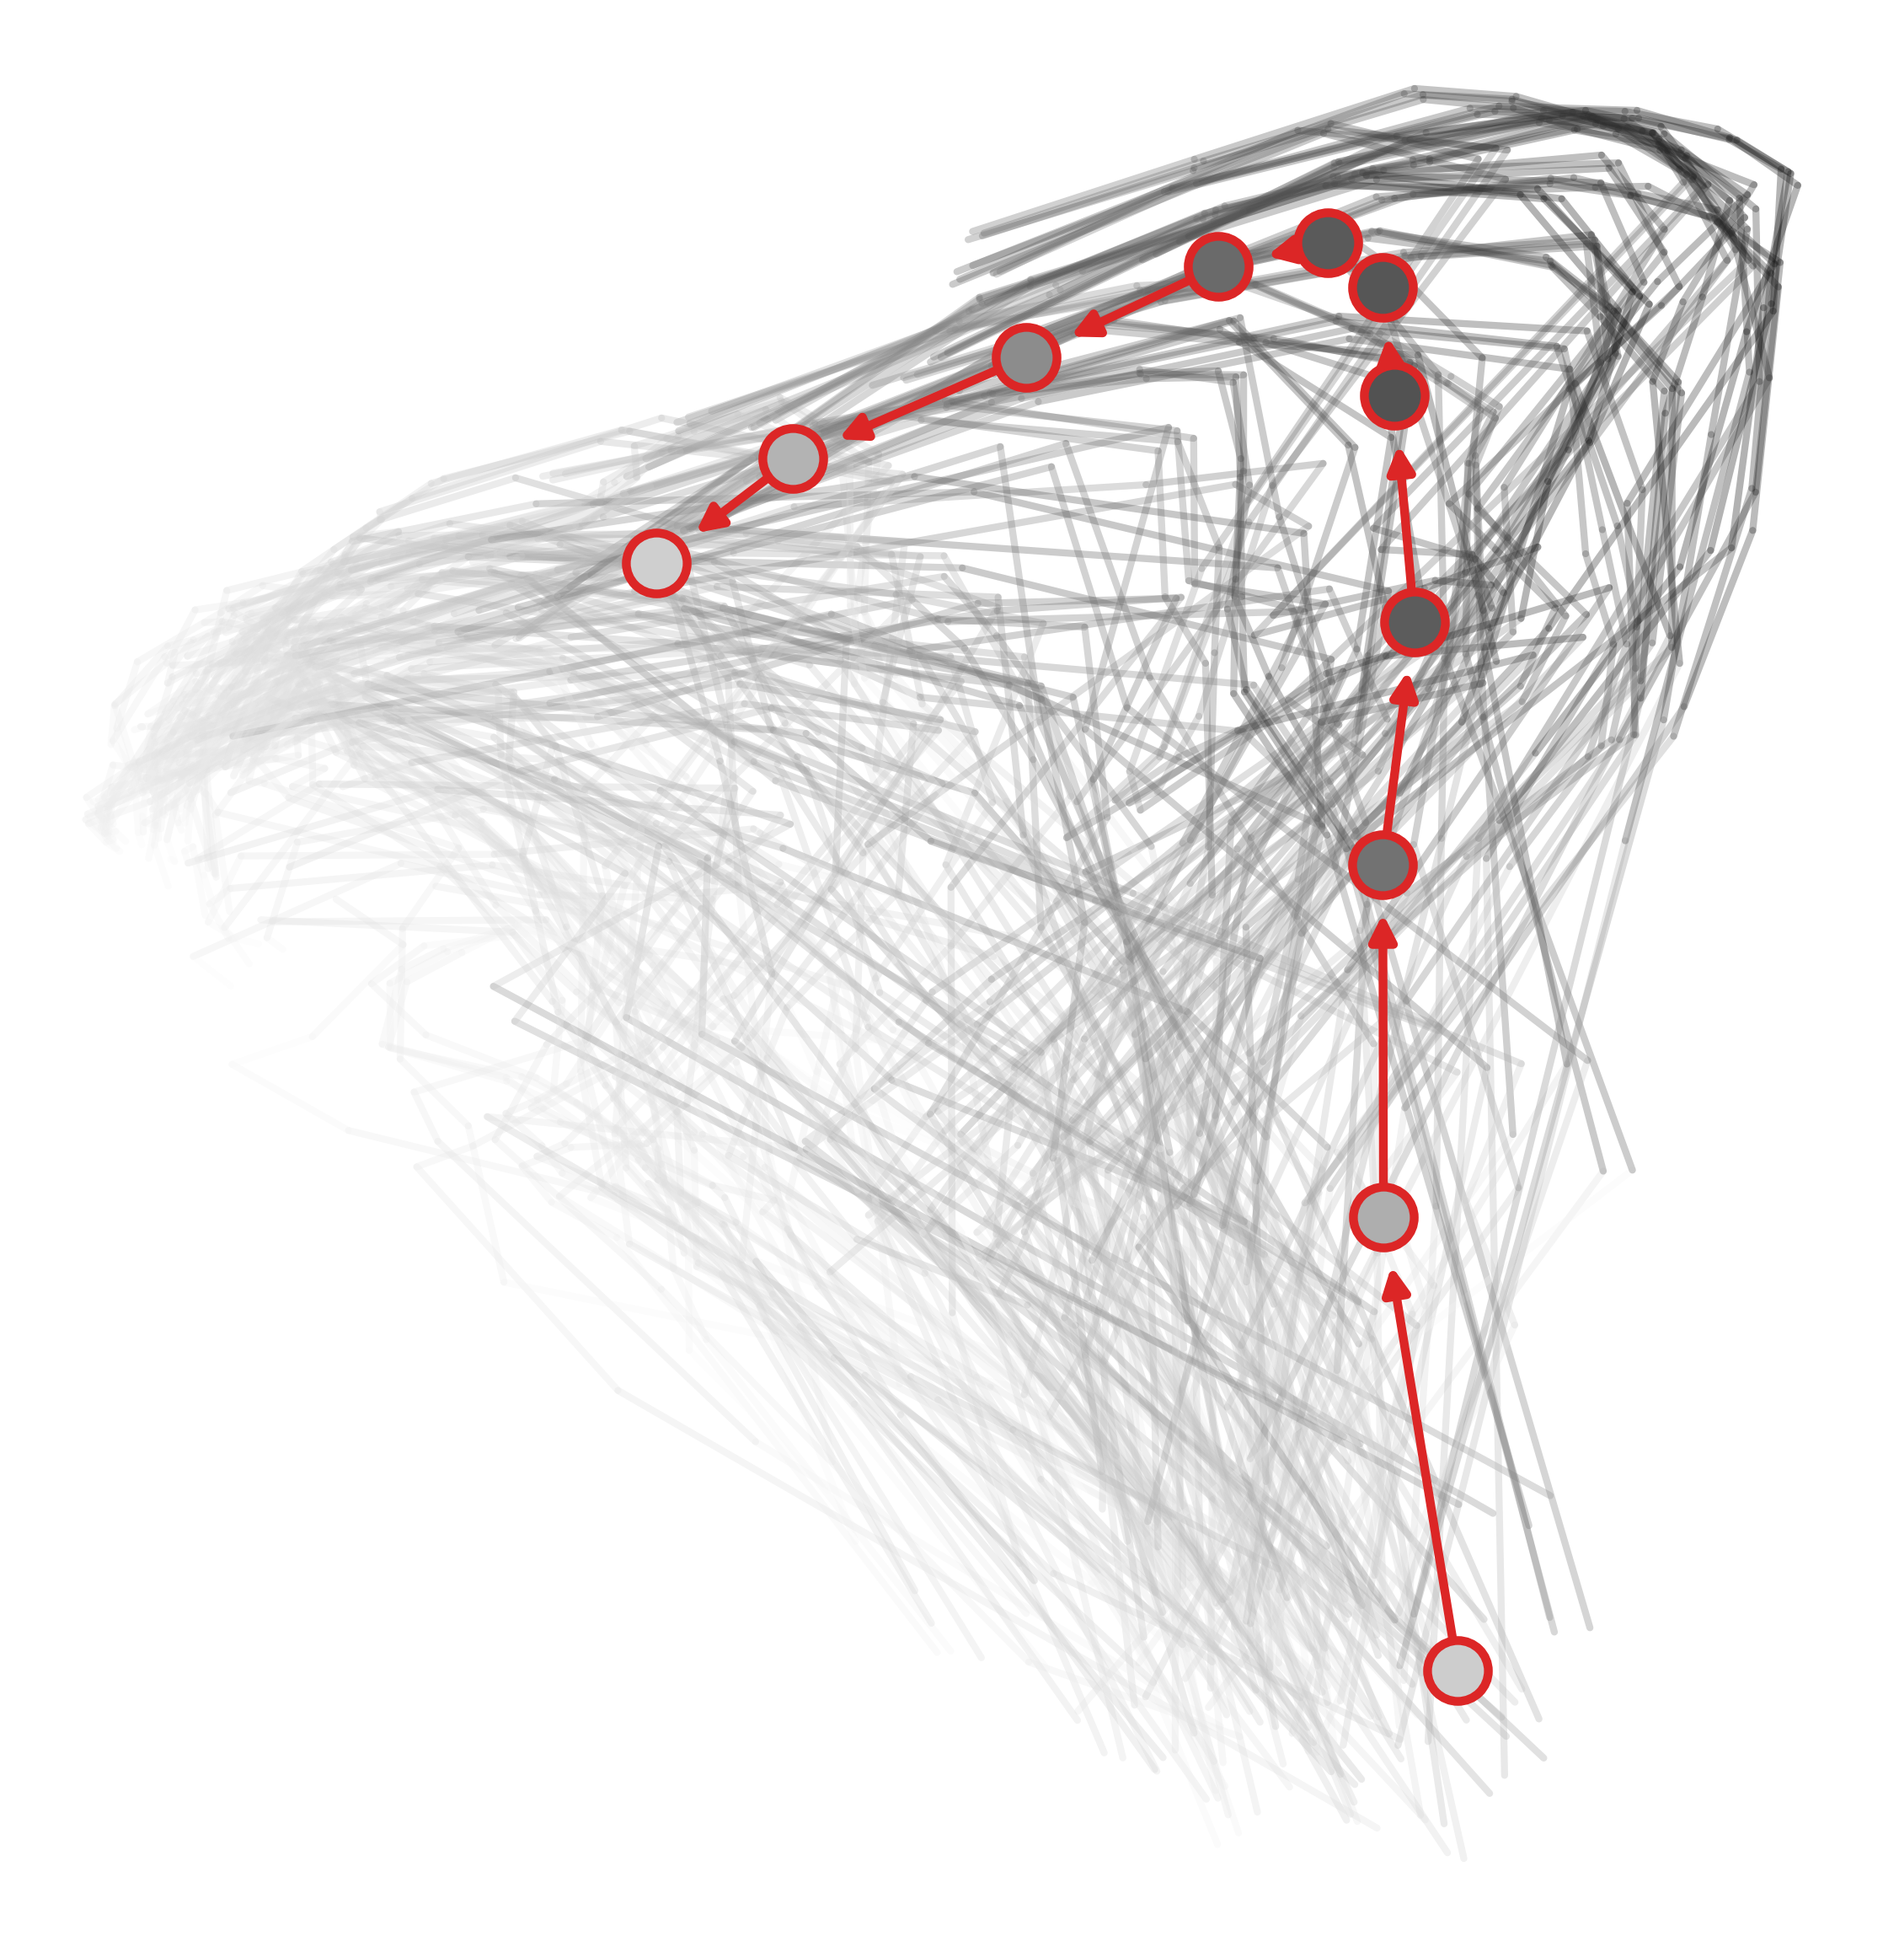
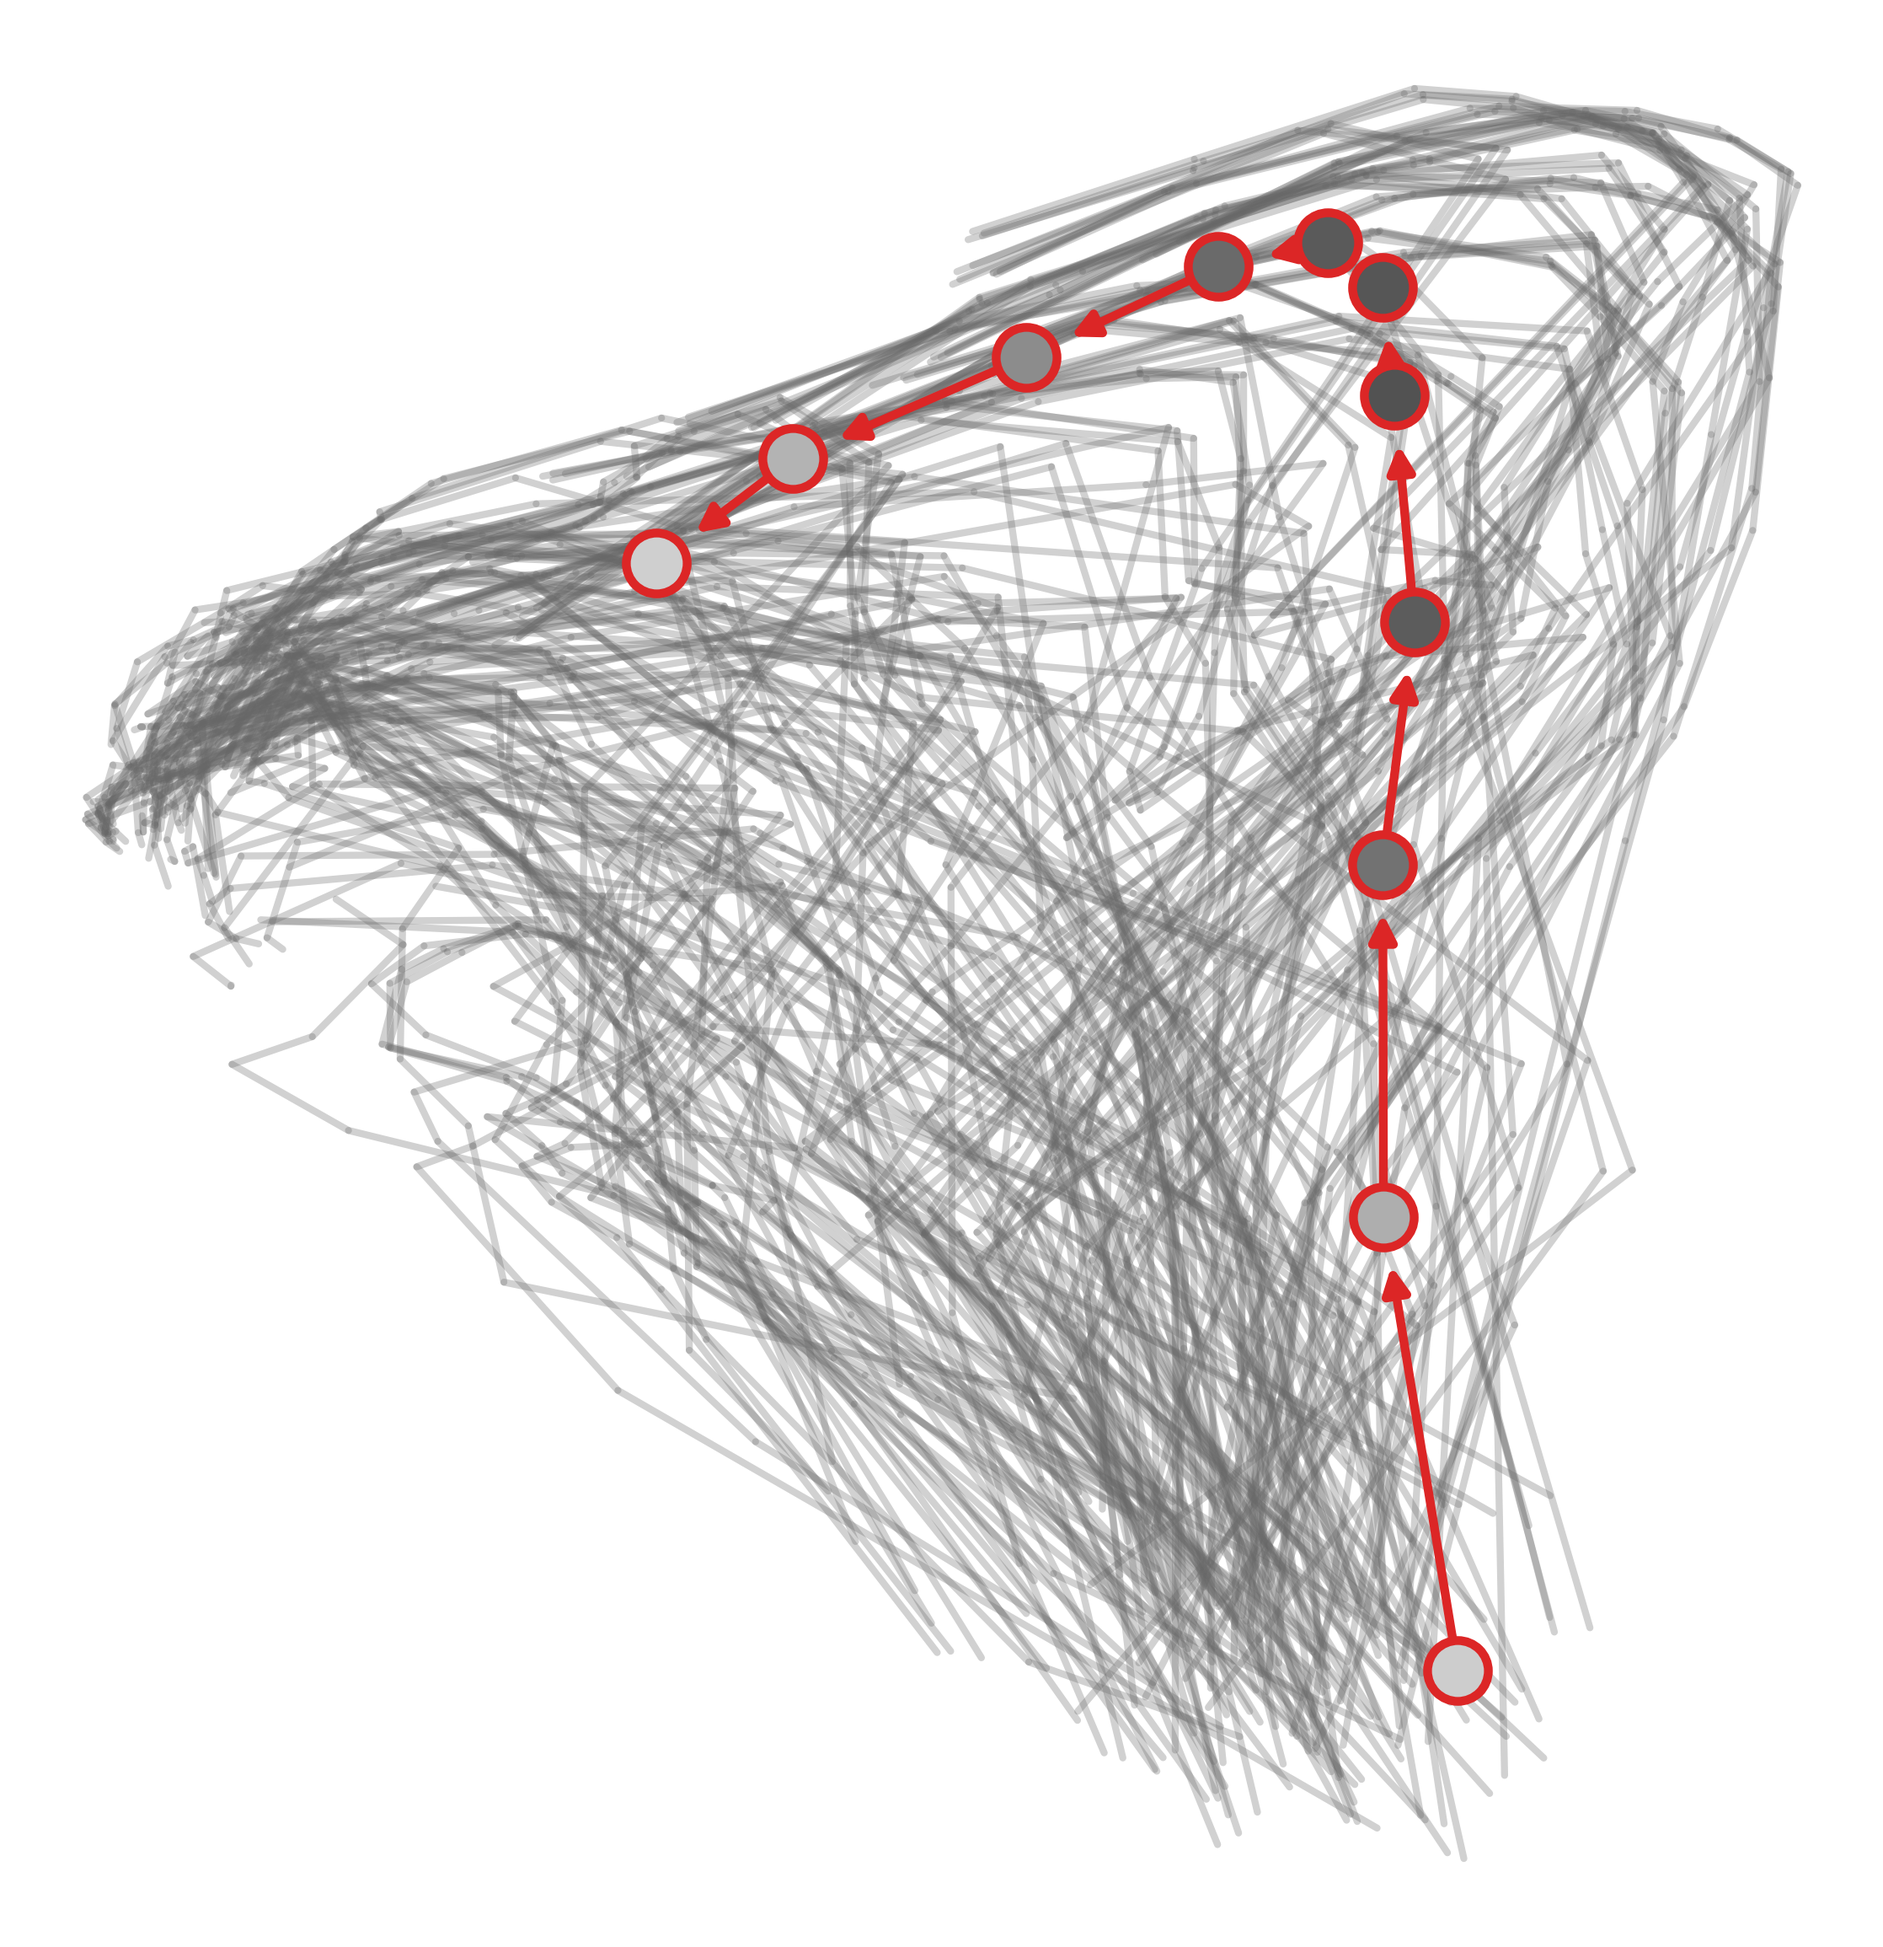
Figures: thread variants now use flat-grey background edges
Adds a --bg-color flag to pc_highlighted that, when set, renders every
background segment with a single color instead of the per-edge
cmap-driven gradient. The thread variants are re-rendered with
--bg-color '#666666' so the persona-strength gradient isn't revealed
to the reader before the persona discussion (which happens at the
red trajectory step in the thread).

Highlighted markers still use the Greys_r cmap by persona strength,
so the chains themselves keep their light-to-dark progression for
visual direction.

diff --git a/figures/pc_highlighted.py b/figures/pc_highlighted.py
@@ -93,6 +93,13 @@ def main() -> None:
         help="Linewidth for background trajectory edges.",
     )
     ap.add_argument(
+        "--bg-color", default=None,
+        help="If set, render every background edge with this single color "
+             "(e.g. '#666666') instead of using --cmap per-edge. Useful "
+             "for narrative figures where the persona-strength gradient "
+             "shouldn't be revealed yet.",
+    )
+    ap.add_argument(
         "--hl-linewidth", type=float, default=2.5,
         help="Linewidth for both highlighted edges and marker outlines.",
     )
@@ -200,8 +207,8 @@ def main() -> None:
     fig, ax = plt.subplots(figsize=(args.size, args.size))
 
     # Background: each individual edge colored by the cos of its preceding
-    # checkpoint, so the color reflects the persona-strength at the start
-    # of each step rather than averaging across the two endpoints.
+    # checkpoint (so the color reflects persona-strength at the start of
+    # each step), unless --bg-color overrides with a single flat color.
     segments: list[list[tuple[float, float]]] = []
     seg_colors: list[str] = []
     for key, rows in trajs.items():
@@ -213,7 +220,10 @@ def main() -> None:
                 (float(p1["pc"][0]), float(p1["pc"][1])),
                 (float(p2["pc"][0]), float(p2["pc"][1])),
             ])
-            seg_colors.append(color_for(t_cos(p1["cos"])))
+            if args.bg_color is not None:
+                seg_colors.append(args.bg_color)
+            else:
+                seg_colors.append(color_for(t_cos(p1["cos"])))
     if segments:
         lc = LineCollection(
             segments, colors=seg_colors, alpha=args.bg_alpha,
